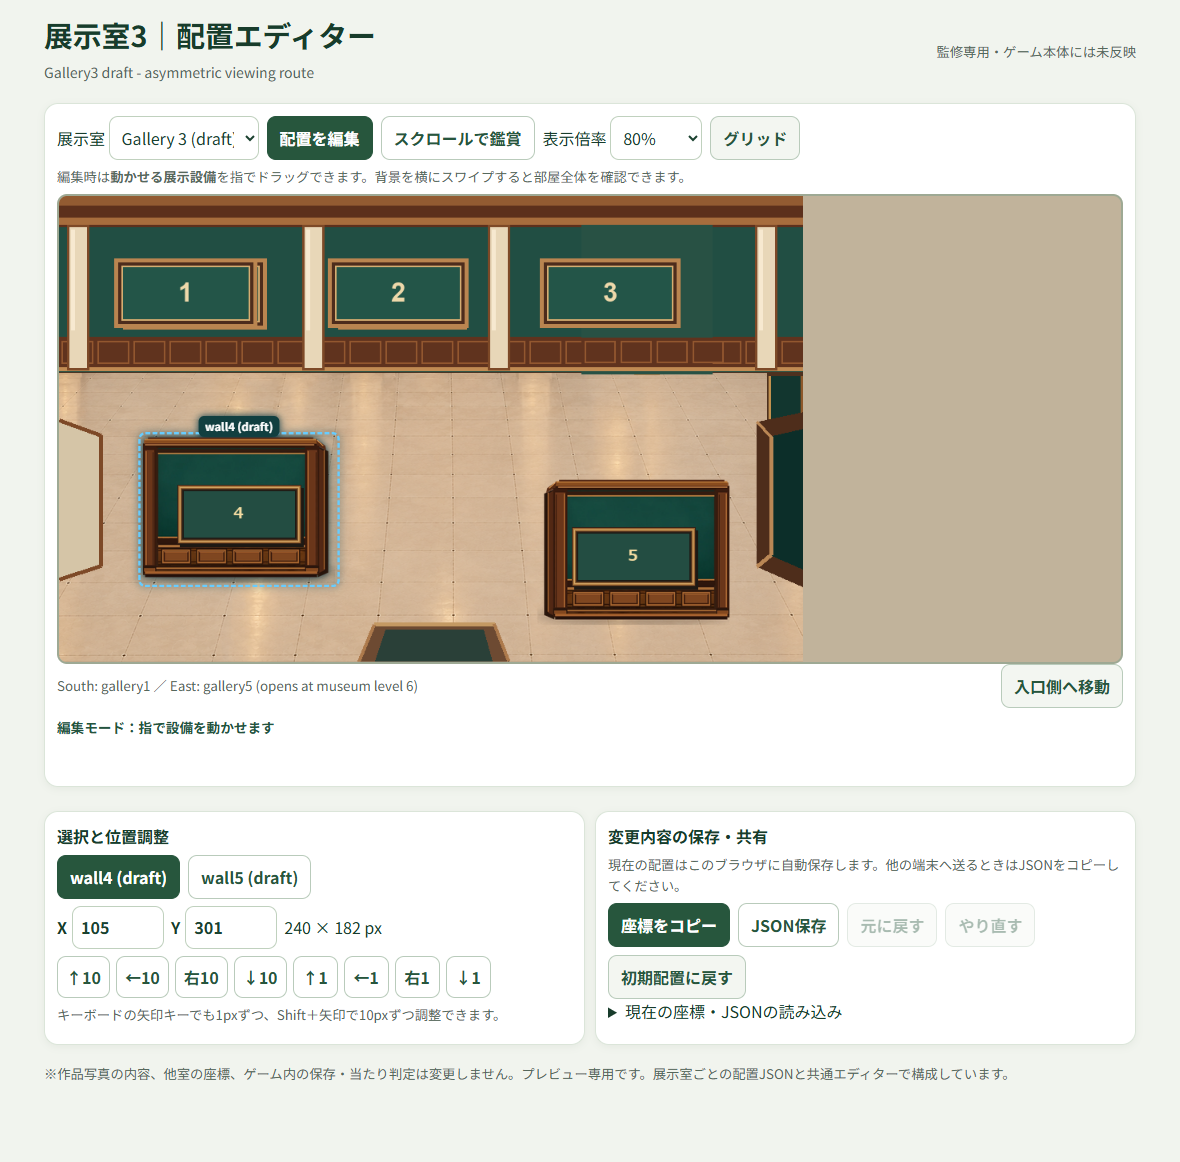
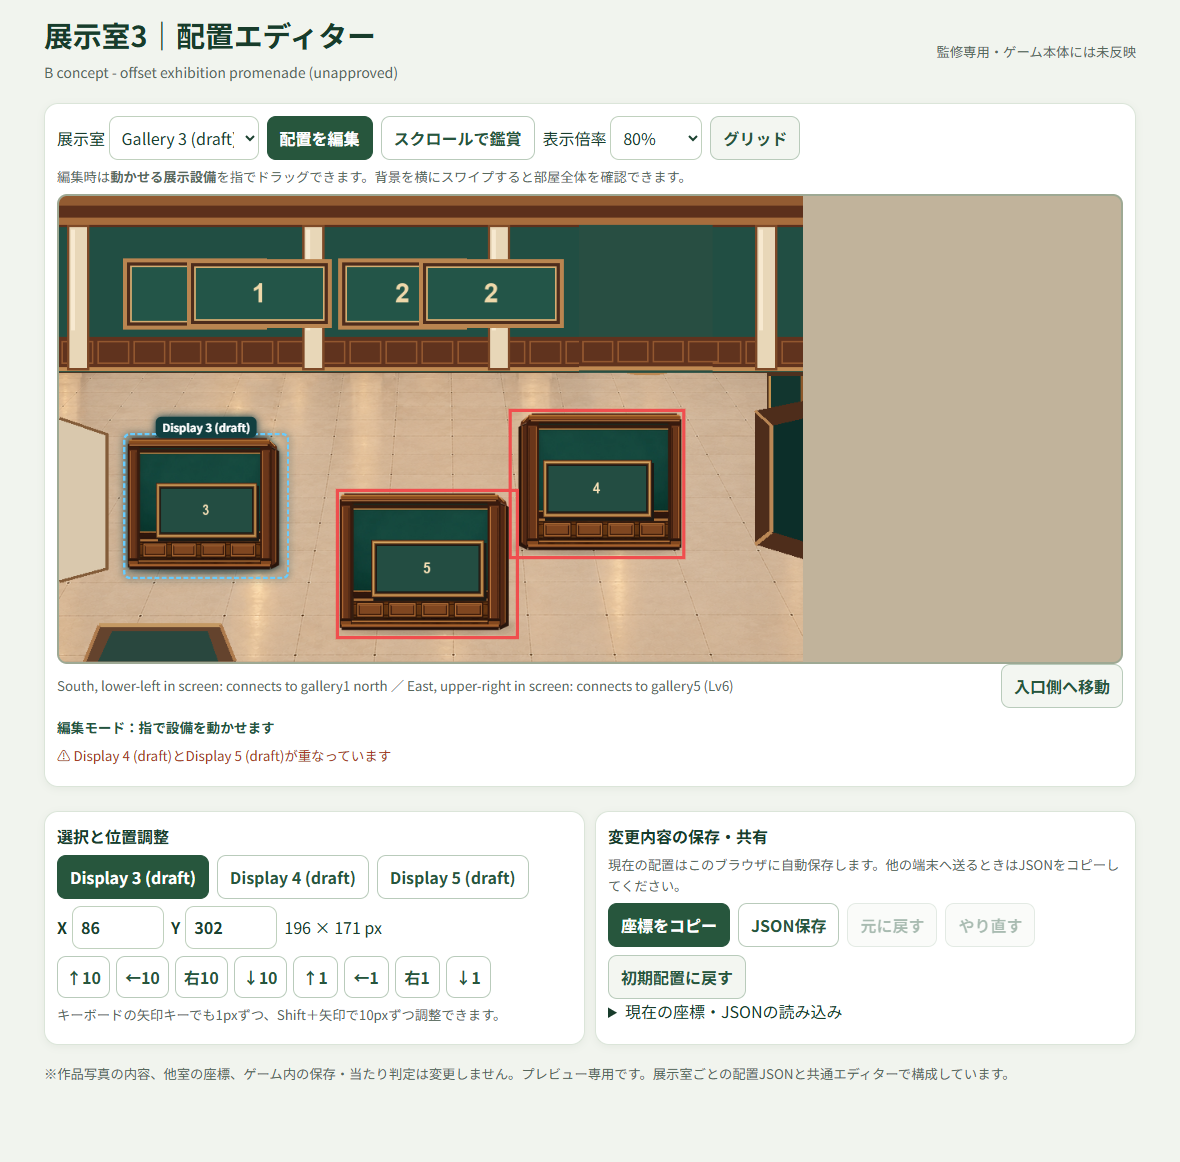
feat(a18): revise gallery3 to staggered five-display concept B

diff --git a/qa/revise_gallery3.py b/qa/revise_gallery3.py
@@ -1,0 +1,47 @@
+from pathlib import Path
+from PIL import Image,ImageDraw,ImageFont
+import json,shutil
+root=Path(__file__).resolve().parents[1]; f=root/'rooms/gallery3'; src=root/'rooms/gallery2'
+im=Image.open(src/'architecture.png').convert('RGBA');d=ImageDraw.Draw(im)
+# Seal gallery2 west entrance, restore plain west-side wall.
+d.polygon([(0,277),(59,297),(59,466),(0,482)],fill='#d9c8ad')
+d.line([(0,277),(59,297),(59,466),(0,482)],fill='#835c39',width=4)
+# Remove north doorway; gallery3 has no north link.
+d.rectangle((650,36,816,220),fill='#284e42')
+d.rectangle((650,176,816,215),fill='#60331e')
+for x in range(654,814,44):d.rectangle((x,181,x+38,207),outline='#92572f',width=2)
+d.line((650,215,816,215),fill='#c18b53',width=5)
+# Two permanent rear exhibits, not three.
+font=ImageFont.truetype('C:/Windows/Fonts/arialbd.ttf',33)
+for n,x,w in [(1,160,180),(2,450,180)]:
+ d.rectangle((x,79,x+w,164),fill='#4d2c1c',outline='#ba8550',width=5)
+ d.rectangle((x+9,88,x+w-9,155),fill='#235548',outline='#d5ad71',width=2)
+ d.text((x+w/2,121),str(n),font=font,anchor='mm',fill='#eed8aa')
+# South passage, deliberately lower LEFT (screen-local); entrance from gallery1 north.
+d.polygon([(50,536),(202,536),(220,581),(32,581)],fill='#64432d')
+d.polygon([(66,544),(185,544),(198,581),(49,581)],fill='#29473e')
+d.line((50,536,202,536),fill='#c49963',width=5)
+d.line((32,581,50,536),fill='#ad7a4c',width=4)
+d.line((220,581,202,536),fill='#ad7a4c',width=4)
+# East connection to gallery5 at upper right of floor.
+d.polygon([(870,268),(929,256),(929,453),(870,435)],fill='#4e2d1b')
+d.polygon([(890,287),(929,278),(929,431),(890,419)],fill='#0c2e29')
+d.line([(870,268),(890,287),(890,419),(870,435)],fill='#ba8755',width=5)
+im.save(f/'architecture.png')
+# 3 independent panels: near-left, mid-right, near-centre; strong zig-zag rhythm.
+for n in (3,4,5):
+ source=root/'rooms/gallery2'/f'wall{n}.png'
+ shutil.copy2(source,f/f'wall{n}.png')
+objects=[('wall3',86,302,196,171),('wall4',567,271,211,178),('wall5',351,371,219,178)]
+room=json.loads((f/'room.json').read_text(encoding='utf-8'))
+room['subtitle']='B concept - offset exhibition promenade (unapproved)'
+room['entrance']='South, lower-left in screen: connects to gallery1 north'
+room['exit']='East, upper-right in screen: connects to gallery5 (Lv6)'
+room['objects']=[{'id':n,'label':'Display '+n[-1]+' (draft)','image':f'rooms/gallery3/{n}.png','rect':{'x':x,'y':y,'w':w,'h':h}} for n,x,y,w,h in objects]
+room['layoutRevision']='gallery3-concept-B-20261028'
+room['notes']='2 fixed rear displays + 3 independent display walls. Screen-local lower-left south entry, upper-right east exit. Room adjacency verified against ROOM_LINKS. Collision/depth not tested.'
+(f/'room.json').write_text(json.dumps(room,ensure_ascii=True,indent=2)+'\n',encoding='utf-8')
+for n,x,y,w,h in objects:
+ a=Image.open(f'{f}/{n}.png').convert('RGBA').resize((w,h));im.alpha_composite(a,(x,y))
+im.save(f/'gallery3_concept_B.png')
+print('gallery3 B created',im.size)

diff --git a/qa/check_gallery3_live.py b/qa/check_gallery3_live.py
@@ -19,7 +19,7 @@ try:
    assert res.status==200
    page.wait_for_function('window.__A18_LAYOUT_EDITOR__ && window.__A18_LAYOUT_EDITOR__.getState().roomId === "gallery3"')
    state=page.evaluate('window.__A18_LAYOUT_EDITOR__.getState()')
-   assert len(state['objects'])==2,state
+   assert len(state['objects'])==3,state
    assert all(e.evaluate('e=>e.complete && e.naturalWidth>0') for e in page.locator('#stage img').all())
    assert not errors,errors
    page.screenshot(path=str(root/'rooms/gallery3'/f'editor_gallery3_{width}.png'),full_page=True)
